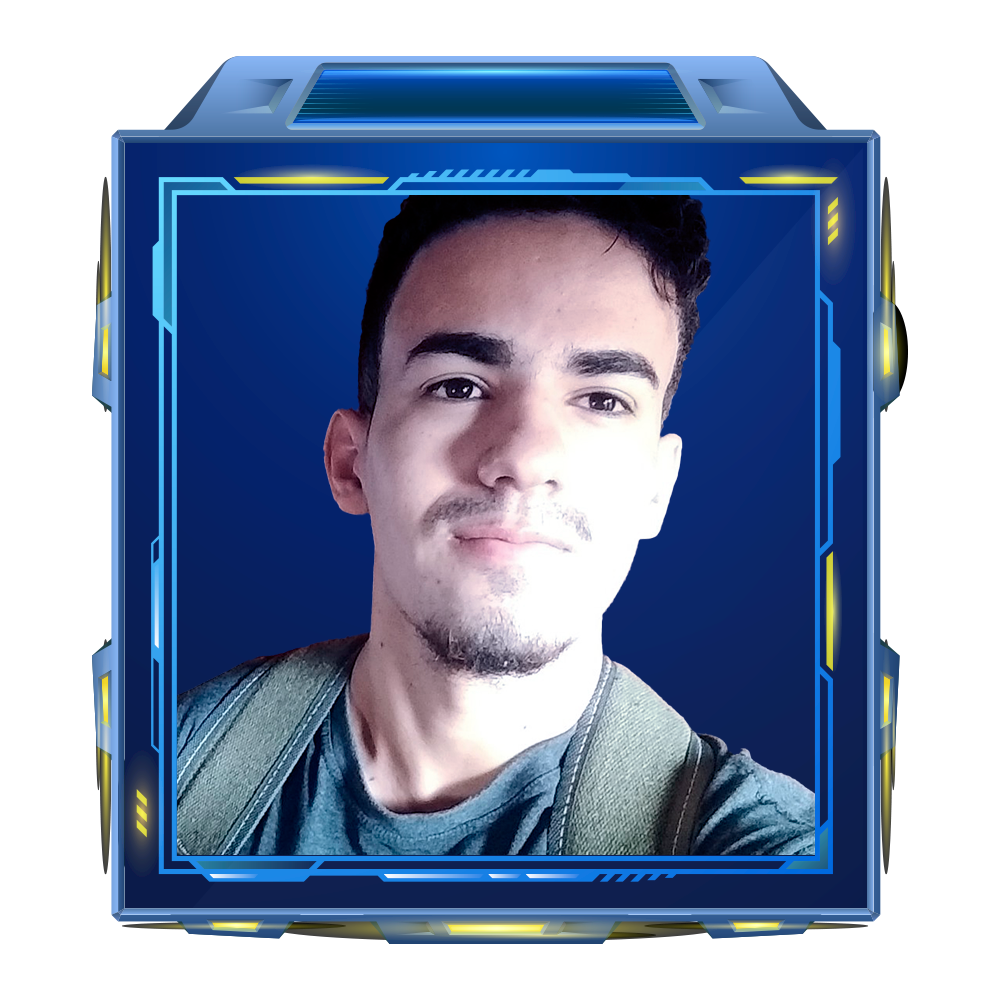
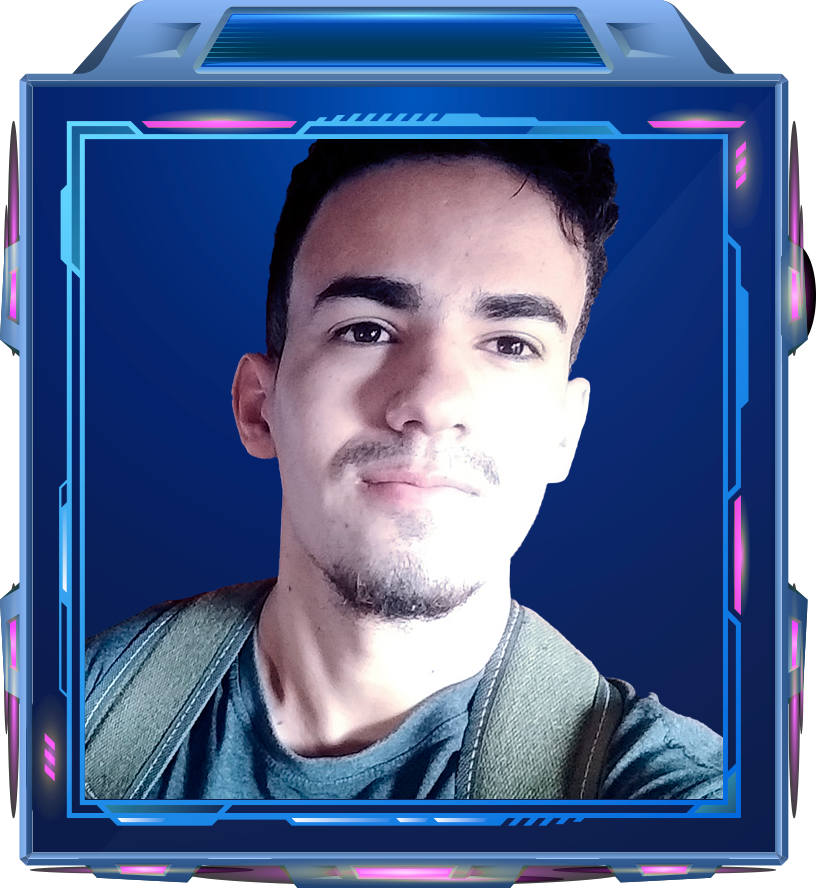
Criação da barra de navegação

diff --git a/src/components/nav/NavBar.jsx b/src/components/nav/NavBar.jsx
@@ -1,0 +1,53 @@
+import React from "react";
+// import '.navBar.css'
+import { AiOutlineHome, AiOutlineUser } from "react-icons/ai";
+import { BiBook, BiMessageDetail } from "react-icons/bi";
+import { RiServiceLine } from "react-icons/ri";
+import { useState } from "react";
+
+import "./navBar.css";
+const NavBar = () => {
+  const [activeNav, setActiveNav] = useState("#");
+
+  return (
+    <nav>
+      <a
+        href="#"
+        onClick={() => setActiveNav("#")}
+        className={activeNav === "#" ? "active" : ""}
+      >
+        <AiOutlineHome />
+      </a>
+      <a
+        href="#about"
+        onClick={() => setActiveNav("#about")}
+        className={activeNav === "#about" ? "active" : ""}
+      >
+        <AiOutlineUser />
+      </a>
+      <a
+        href="#experience"
+        onClick={() => setActiveNav("#experience")}
+        className={activeNav === "#experience" ? "active" : ""}
+      >
+        <BiBook />
+      </a>
+      <a
+        href="#portifolio"
+        onClick={() => setActiveNav("#portifolio")}
+        className={activeNav === "#portifolio" ? "active" : ""}
+      >
+        <RiServiceLine />
+      </a>
+      <a
+        href="#contact"
+        onClick={() => setActiveNav("#contact")}
+        className={activeNav === "#contact" ? "active" : ""}
+      >
+        <BiMessageDetail />
+      </a>
+    </nav>
+  );
+};
+
+export default NavBar;

diff --git a/src/App.jsx b/src/App.jsx
@@ -1,21 +1,24 @@
-import About from "./components/About";
-import Contact from "./components/Contact";
-import Experience from "./components/Experience";
-import Footer from "./components/Footer";
+import About from "./components/about/About";
+import Contact from "./components/contact/Contact";
+import Experience from "./components/experience/Experience";
+import Footer from "./components/footer/Footer";
 import Header from "./components/header/Header";
 
-import NavBar from "./components/NavBar";
+import NavBar from "./components/nav/NavBar";
+import Portifolio from "./components/portifolio/Portifolio";
 
 function App() {
   return (
     <>
         <Header/>
-        <About />
-        <Contact />
+        <NavBar />
+        <About /> 
         <Experience />
+        <Portifolio />
+        <Contact />
         <Footer />
         
-        <NavBar />
+
     </>
       
     

diff --git a/src/components/header/header.css b/src/components/header/header.css
@@ -30,8 +30,6 @@ header {
 .logo {
   width: 20rem;
   margin: 0 auto;
-  
-  
 }
 
 .cta {
@@ -42,6 +40,18 @@ header {
 }
 
 .me {
+  width: 26rem;
+  height: 30rem;
+  position: absolute;
+  /*centraliza com 50 - a metade da largura*/
+  left: calc(50% - 13rem);
+  margin-top: 3rem;
+  overflow: hidden;
+  /* padding: 2rem 1.5rem 1.5rem 1.5rem; */
+}
+
+
+/* .me {
   background: linear-gradient(var(--color-primary), transparent);
   width: 22rem;
   height: 30rem;
@@ -51,9 +61,9 @@ header {
   border-radius: 12rem 12rem 0 0;
   overflow: hidden;
   padding: 5rem 1.5rem 1.5rem 1.5rem;
-}
+} */
 
-.scroll__down{
+.scroll__down {
   position: absolute;
   right: -2.3rem;
   bottom: 5rem;
@@ -73,8 +83,8 @@ header {
     height: 100vh;
   }
 
-  .header__socials, .scroll__down {
+  .header__socials,
+  .scroll__down {
     display: none;
   }
 }
-

diff --git a/src/components/nav/navBar.css b/src/components/nav/navBar.css
@@ -1,0 +1,32 @@
+nav {
+  background: rgba(0, 0, 0, 0.3);
+  width: max-content;
+  display: block;
+  padding: 0.7rem 1.7rem;
+  position: fixed;
+  left: 50%;
+  transform: translateX(-50%);
+  bottom: 2rem;
+  display: flex;
+  gap: 0.8rem;
+  border-radius: 3rem;
+  backdrop-filter: blur(15px);
+}
+
+nav a {
+  background: transparent;
+  padding: 0.9rem;
+  border-radius: 50%;
+  display: flex;
+  color: var(--color-primary);
+  font-size: 1.1rem;
+}
+
+nav a:hover {
+  background: rgba(0, 0, 0, 0.3);
+}
+
+nav a.active {
+  background: var(--color-bg);
+  color: var(--color-white);
+}

diff --git a/src/index.css b/src/index.css
@@ -49,6 +49,15 @@ body {
 h1,h2,h3,h4,h5 {
   font-weight: 500;
 }
+
+h1 {
+  font-size: 2,5rem;
+}
+
+section {
+  margin-top: 8rem;
+  height: 100vh;
+}
 section > h2,
 section > h5 {
   text-align: center;
@@ -67,11 +76,12 @@ section > h2 {
 a {
   color: var(--color-primary);
   transition: var(--transition);
+  
 }
 
 a:hover{
   color: var(--color-white);
-  color: var(--color-primary);
+  
 }
 
 

diff --git a/src/components/header/Header.jsx b/src/components/header/Header.jsx
@@ -1,7 +1,7 @@
 import React from 'react'
 import { CTA } from './CTA'
 import './header.css'
-import ME from '../../assets/foto.png'
+import ME from '../../assets/foto2.png'
 import HeaderSocial from './HeaderSocial'
 import Logo from '../../assets/logo.png'
 

diff --git a/src/components/portifolio/Portifolio.jsx b/src/components/portifolio/Portifolio.jsx
@@ -1,0 +1,9 @@
+import React from 'react'
+
+const Portifolio = () => {
+  return (
+    <section id='portifolio'>Portifólio</section>
+  )
+}
+
+export default Portifolio

diff --git a/src/components/experience/Experience.jsx b/src/components/experience/Experience.jsx
@@ -2,7 +2,7 @@ import React from 'react'
 
 const Experience = () => {
   return (
-    <div>Experience</div>
+    <section id='experience'>Experience</section>
   )
 }
 

diff --git a/src/components/contact/Contact.jsx b/src/components/contact/Contact.jsx
@@ -2,7 +2,7 @@ import React from 'react'
 
 const Contact = () => {
   return (
-    <div>Contact</div>
+    <section id='contact'>Contato</section>
   )
 }
 

diff --git a/src/components/about/About.jsx b/src/components/about/About.jsx
@@ -2,7 +2,7 @@ import React from 'react'
 
 const about = () => {
   return (
-    <div>about</div>
+    <section id='about'>about</section>
   )
 }
 
